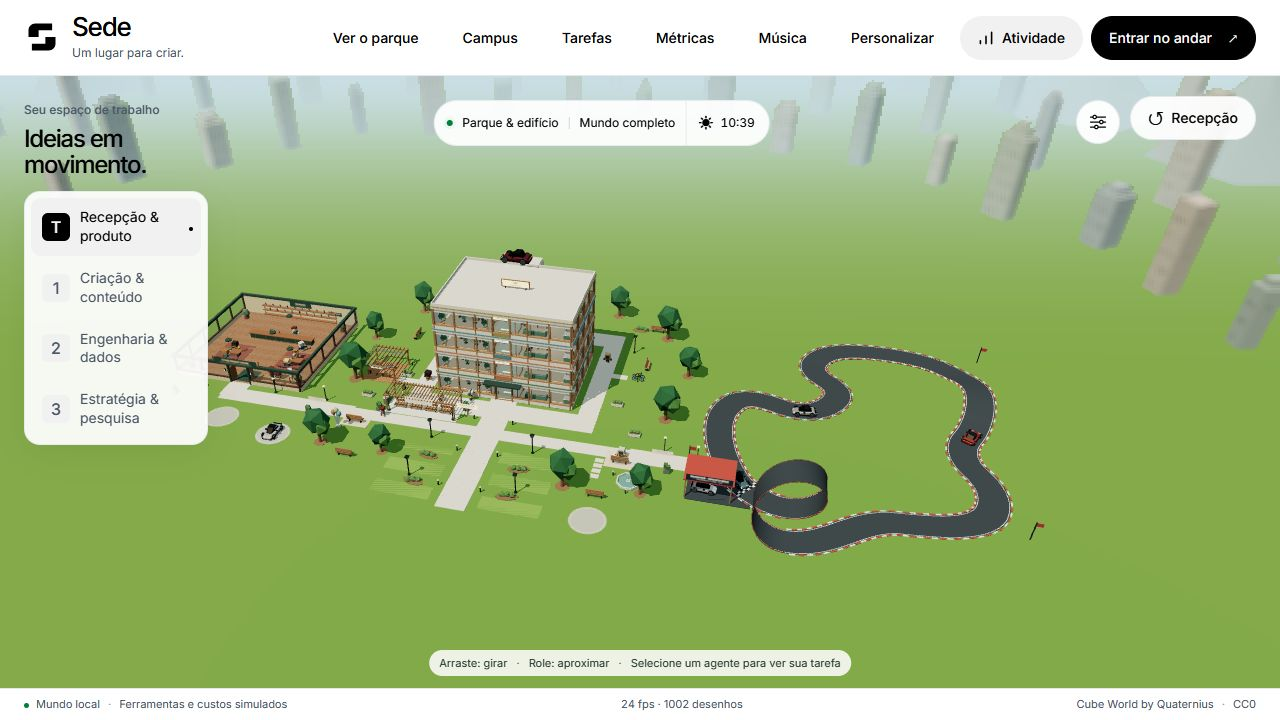
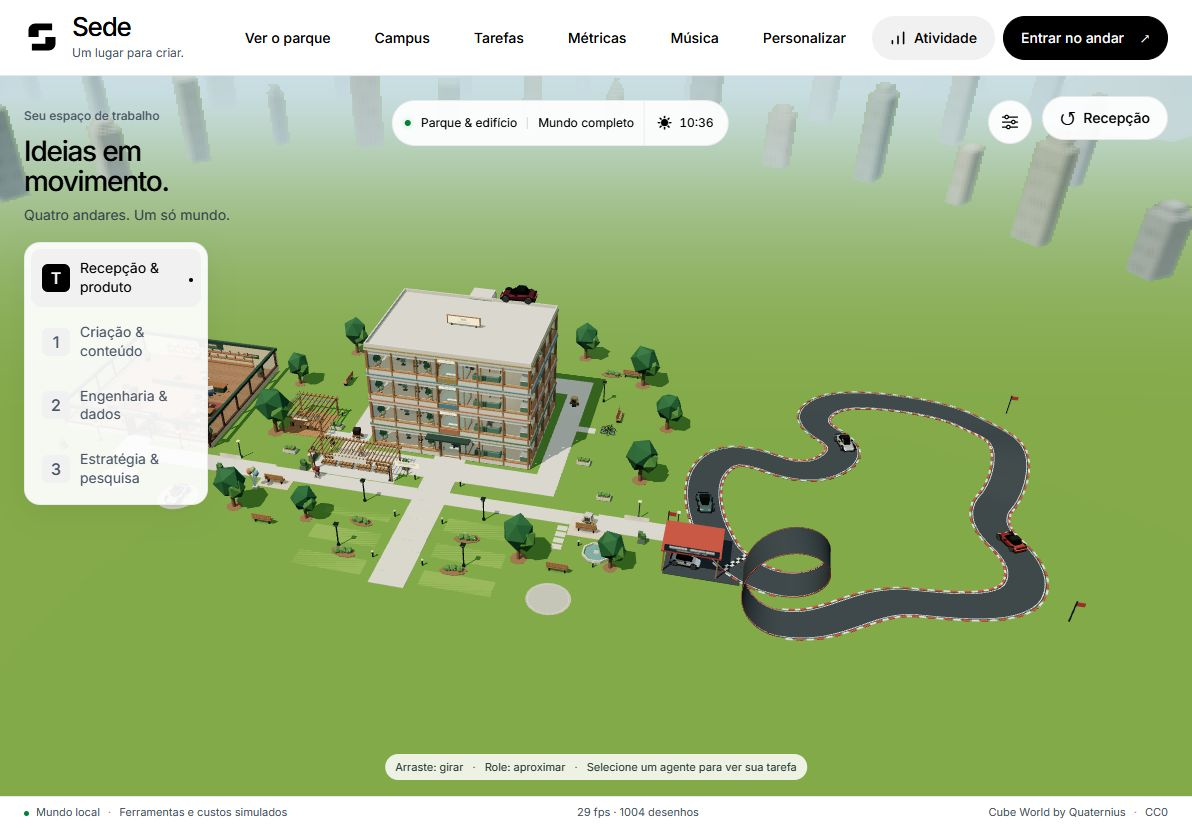
Use Sede name consistently for beta release

diff --git a/sede-3d/world.js b/sede-3d/world.js
@@ -8,7 +8,7 @@ const DOOR_TIME = 0.9;
 
 /** Exterior stays at ground level; only elevator.group is translated by setLiftHeight. */
 export function createWorld(scene) {
-  const group = new THREE.Group(); group.name = 'CED · Parque e edifício';
+  const group = new THREE.Group(); group.name = 'Sede · Parque e edifício';
   const landscape = new THREE.Group(); landscape.name = 'Parque caminhável'; group.add(landscape);
   const building = new THREE.Group(); building.name = 'Fachada · quatro andares'; group.add(building);
   const bounds = { minX: -62, maxX: 80, minZ: -34, maxZ: 42 };
@@ -214,7 +214,7 @@ export function createWorld(scene) {
   box([5.9, 0.06, 1.4], [0, 3.5, 8.85], 'wood', building);
   box([4.7, 1.27, 0.12], [0, 17, -0.08], 'wood', roof);
   for (const x of [-1.7, 1.7]) box([0.13, 1.2, 0.13], [x, 16.55, -0.08], 'dark', roof);
-  label('CED', 'Um lugar para boas ideias.', 4.4, 1.1, [0, 17, 0], roof);
+  label('Sede', 'Um lugar para boas ideias.', 4.4, 1.1, [0, 17, 0], roof);
   // Rooftop parapet without another full interior instance.
   for (const z of [-8.14, 8.14]) box([22.48, 0.54, 0.18], [0, 16.28, z], 'wall', roof);
   for (const x of [-11.14, 11.14]) box([0.18, 0.54, 16.3], [x, 16.28, 0], 'wall', roof);

diff --git a/sede-3d/office.js b/sede-3d/office.js
@@ -14,7 +14,7 @@ const NIGHT_BOUNCE = { floor: 0.18, wall: 0.12, trim: 0.08, wood: 0.12, paper: 0
 
 export function createOffice(scene) {
   const group = new THREE.Group();
-  group.name = 'CED · Primeiro andar';
+  group.name = 'Sede · Primeiro andar';
   const cutaway = new THREE.Group();
   cutaway.name = 'Teto e fachadas frontal/direita';
   group.add(cutaway);
@@ -126,7 +126,7 @@ export function createOffice(scene) {
   for (let i = 0; i < 27; i++) { matrix.makeScale(0.009, 0.003, 15.9); matrix.setPosition(-10.4 + i * 0.8, 0.002, 0); seams.setMatrixAt(i, matrix); }
   seams.instanceMatrix.needsUpdate = true; seams.receiveShadow = true; group.add(seams);
   rounded([3.36, 0.014, 12.1], [0, 0.014, 0.2], 'rug');
-  const entrySign = sign('CED', 'ANDAR 01', 1.6, 0.4, [0, 0.027, 5.9]);
+  const entrySign = sign('Sede', 'ANDAR 01', 1.6, 0.4, [0, 0.027, 5.9]);
   entrySign.rotation.set(-Math.PI / 2, 0, 0);
 
   // Only these exterior faces and the roof disappear in overview. Colliders stay.

diff --git a/sede-3d/app-life.js b/sede-3d/app-life.js
@@ -1,9 +1,9 @@
 import * as THREE from 'three';
 import {OrbitControls} from 'three/addons/controls/OrbitControls.js';
 import {GLTFLoader} from 'three/addons/loaders/GLTFLoader.js';
-import {createOffice} from './office.js?v=20261019-ced1';
+import {createOffice} from './office.js?v=20261019-sede1';
 import {createPlayerDrink} from './player-drink.js?v=20261019-beta3';
-import {createWorld} from './world.js?v=20261019-ced1';
+import {createWorld} from './world.js?v=20261019-sede1';
 import {createDayCycle} from './day-cycle.js';
 import {createSky} from './sky.js';
 import {createAtmosphere} from './atmosphere.js?v=20261019-2';

diff --git a/sede-3d/index.html b/sede-3d/index.html
@@ -68,7 +68,7 @@
   <div class="controls-hint" id="controls-hint">Arraste para girar <span>·</span> Role para aproximar <span>·</span> Escolha uma sala abaixo</div>
  </main>
  <footer><span><i aria-hidden="true"></i>Mundo local <b>·</b> Ferramentas e custos simulados</span><span id="performance">Carregando…</span><span>Cube World by Quaternius <b>·</b> CC0</span></footer>
- <script type="module" src="app-life.js?v=20261019-ced2"></script>
+ <script type="module" src="app-life.js?v=20261019-sede1"></script>
 </body>
 </html>
 

diff --git a/README.md b/README.md
@@ -1,16 +1,16 @@
-# CED — Campus 3D experimental
+# Sede — Campus 3D experimental
 
 Uma sede virtual em estilo voxel/chibi: quatro andares, agentes circulando, café, pub, um parque e carros que voam. Projeto de teste em beta, desenvolvido com JavaScript e Three.js.
 
-![Visão do campus CED](docs/preview.jpg)
+![Visão do campus Sede](docs/preview.jpg)
 
 ## Rodar localmente
 
 Requer **Node.js 22 ou superior**, navegador com WebGL e aceleração de hardware habilitada. A experiência foi pensada para desktop, mouse e teclado.
 
 ```sh
-git clone https://github.com/NicolasRibeiro-Red/CED.git
-cd CED
+git clone https://github.com/NicolasRibeiro-Red/Sede.git
+cd Sede
 npm start
 ```
 
@@ -68,4 +68,4 @@ Os testes verificam sintaxe, referências locais, integridade dos modelos e aces
 
 Modelos **Cube World Kit**, de **Quaternius** (CC0), biblioteca **Three.js** (MIT) e fonte **Inter** (SIL OFL). As licenças e a origem dos recursos estão preservadas; veja [THIRD_PARTY_NOTICES.md](THIRD_PARTY_NOTICES.md).
 
-Este repositório é público, mas ainda não atribui uma licença de software livre ao código original do CED. As licenças dos componentes de terceiros se aplicam aos respectivos arquivos. Nomes de produtos aparecem apenas como referências do protótipo, sem afiliação ou endosso.
+Este repositório é público, mas ainda não atribui uma licença de software livre ao código original da Sede. As licenças dos componentes de terceiros se aplicam aos respectivos arquivos. Nomes de produtos aparecem apenas como referências do protótipo, sem afiliação ou endosso.

diff --git a/THIRD_PARTY_NOTICES.md b/THIRD_PARTY_NOTICES.md
@@ -8,4 +8,4 @@
 
 Os modelos foram obtidos do perfil de Quaternius no espelho Poly Pizza. Os GLBs originais foram preservados. O [manifesto de recursos](cube-world-lab/assets/manifest.json) registra fontes, hashes, animações, medidas e limitações; [SOURCE.txt](cube-world-lab/assets/SOURCE.txt) resume a proveniência.
 
-As geometrias procedurais do ambiente, veículos e acessórios são parte do protótipo CED. Nenhuma licença adicional para o código original é concedida por este documento.
+As geometrias procedurais do ambiente, veículos e acessórios são parte do protótipo Sede. Nenhuma licença adicional para o código original é concedida por este documento.
